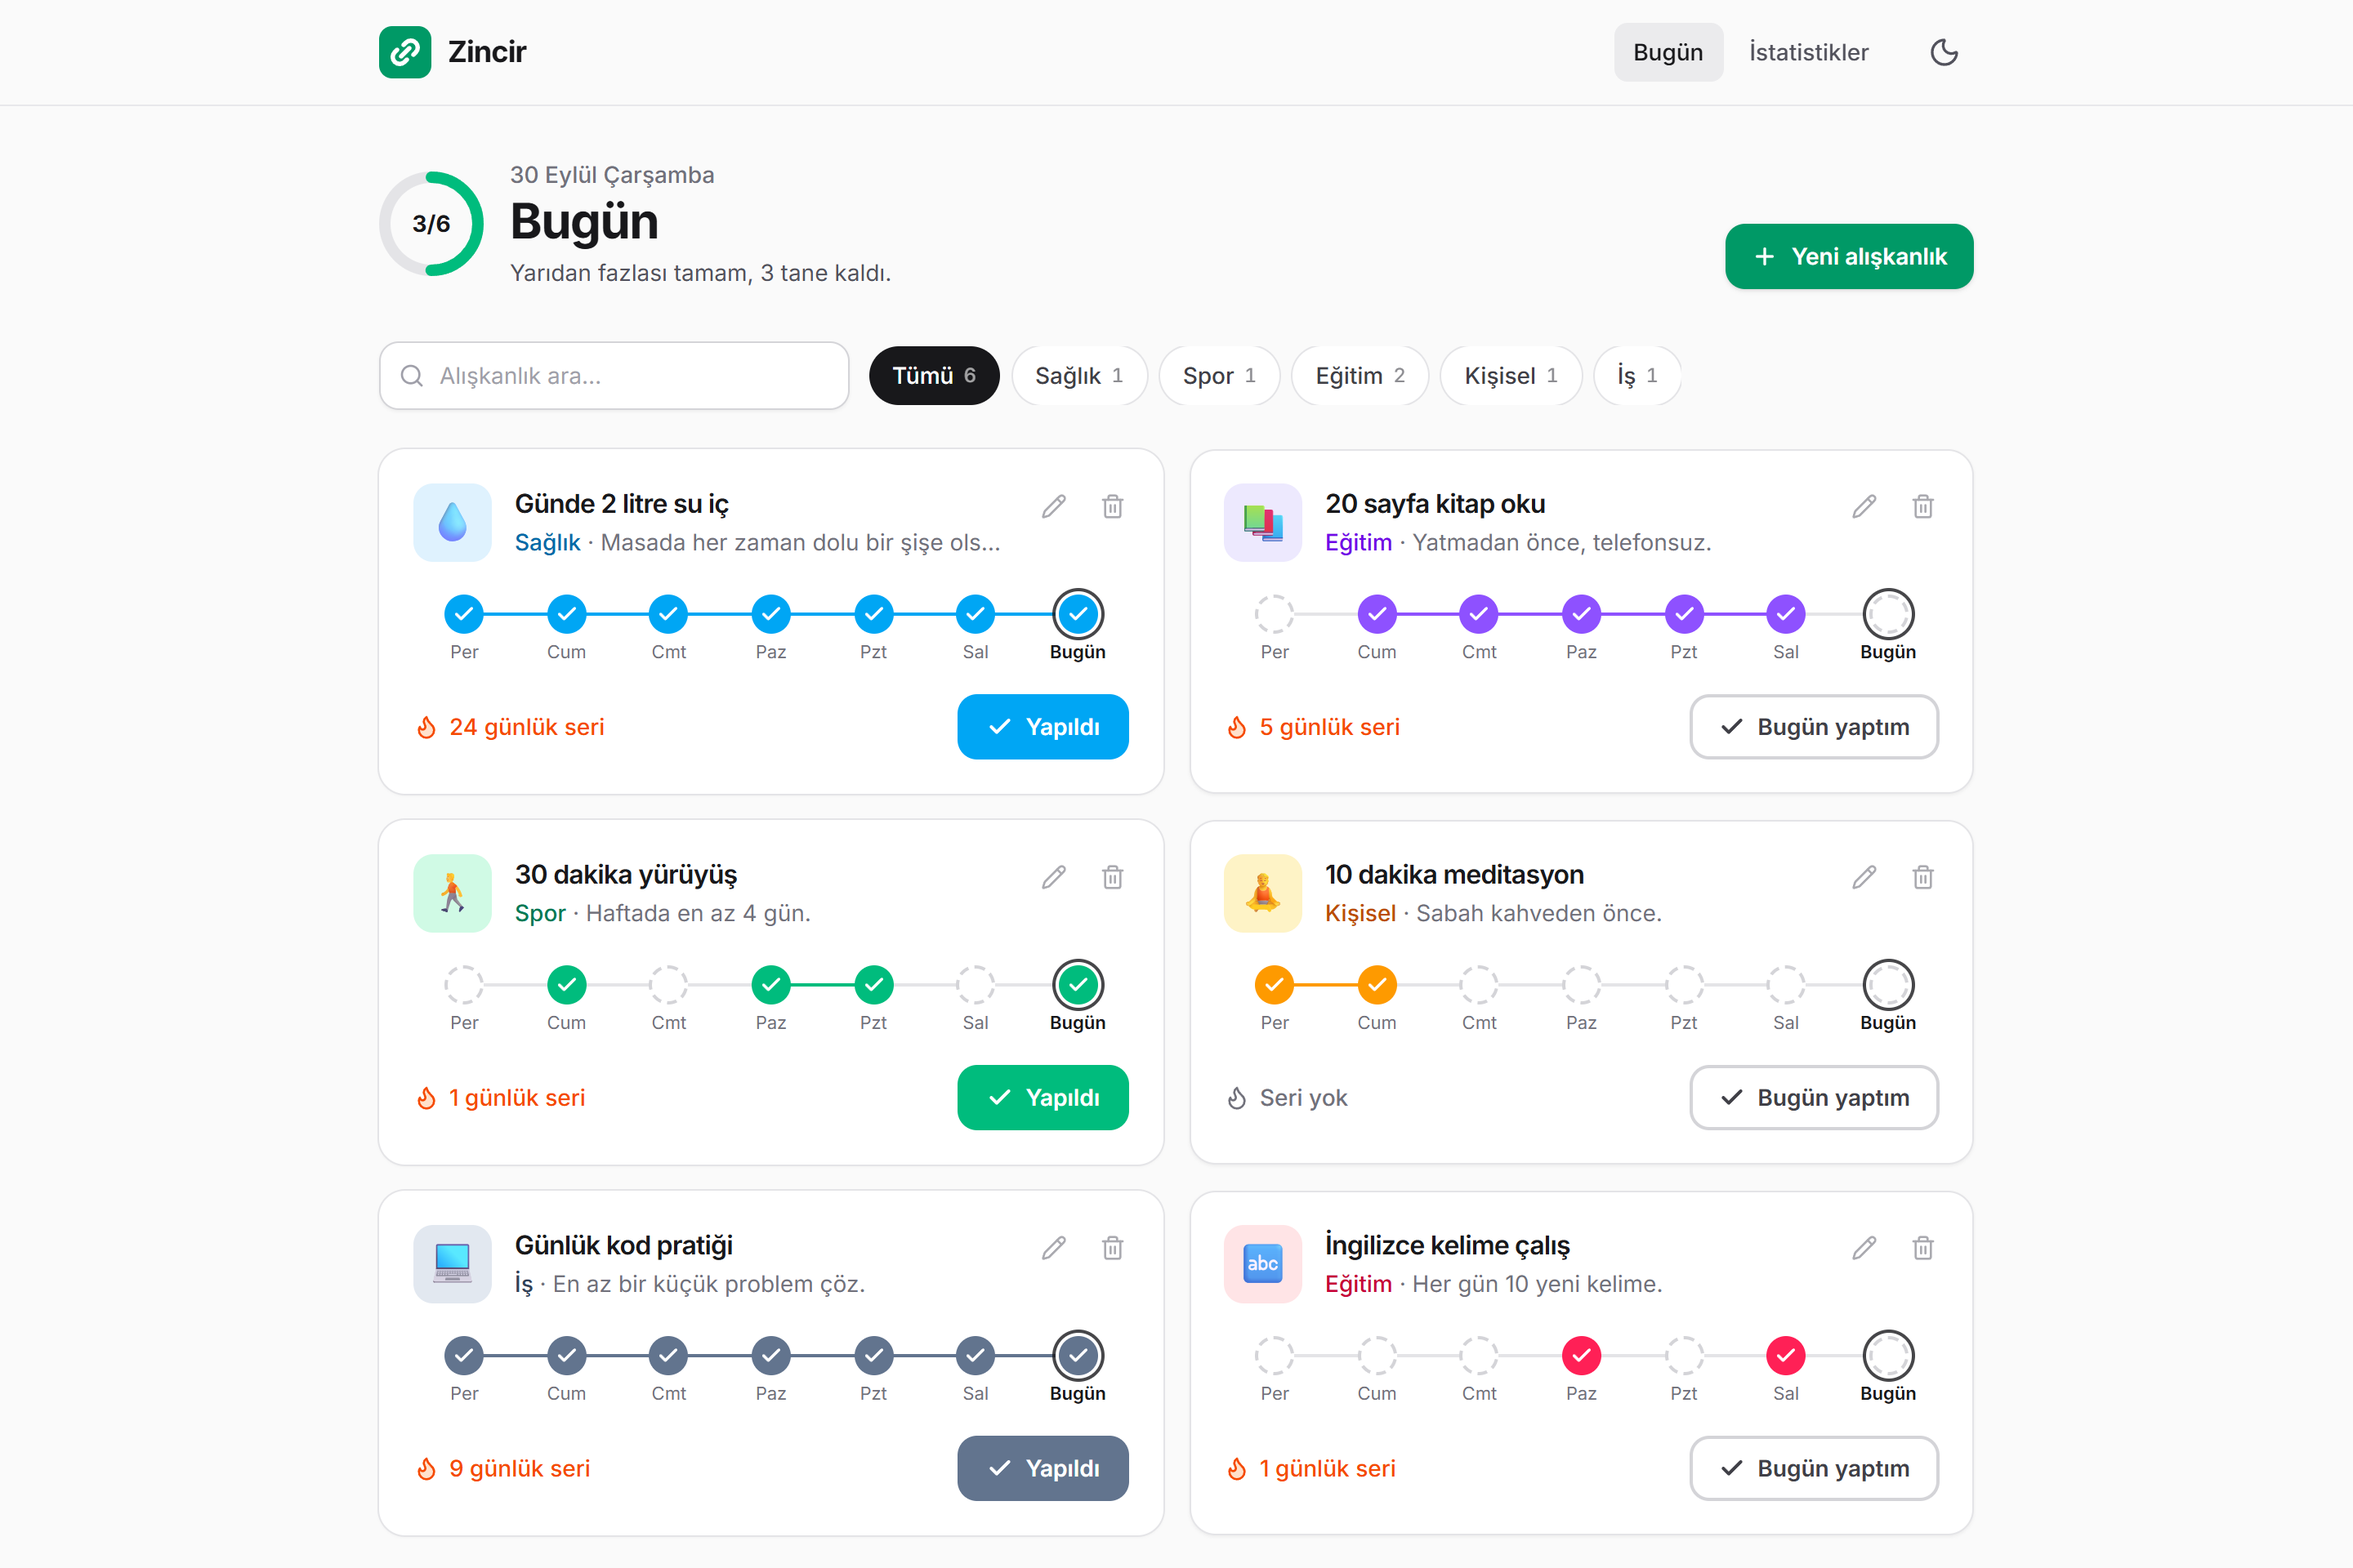
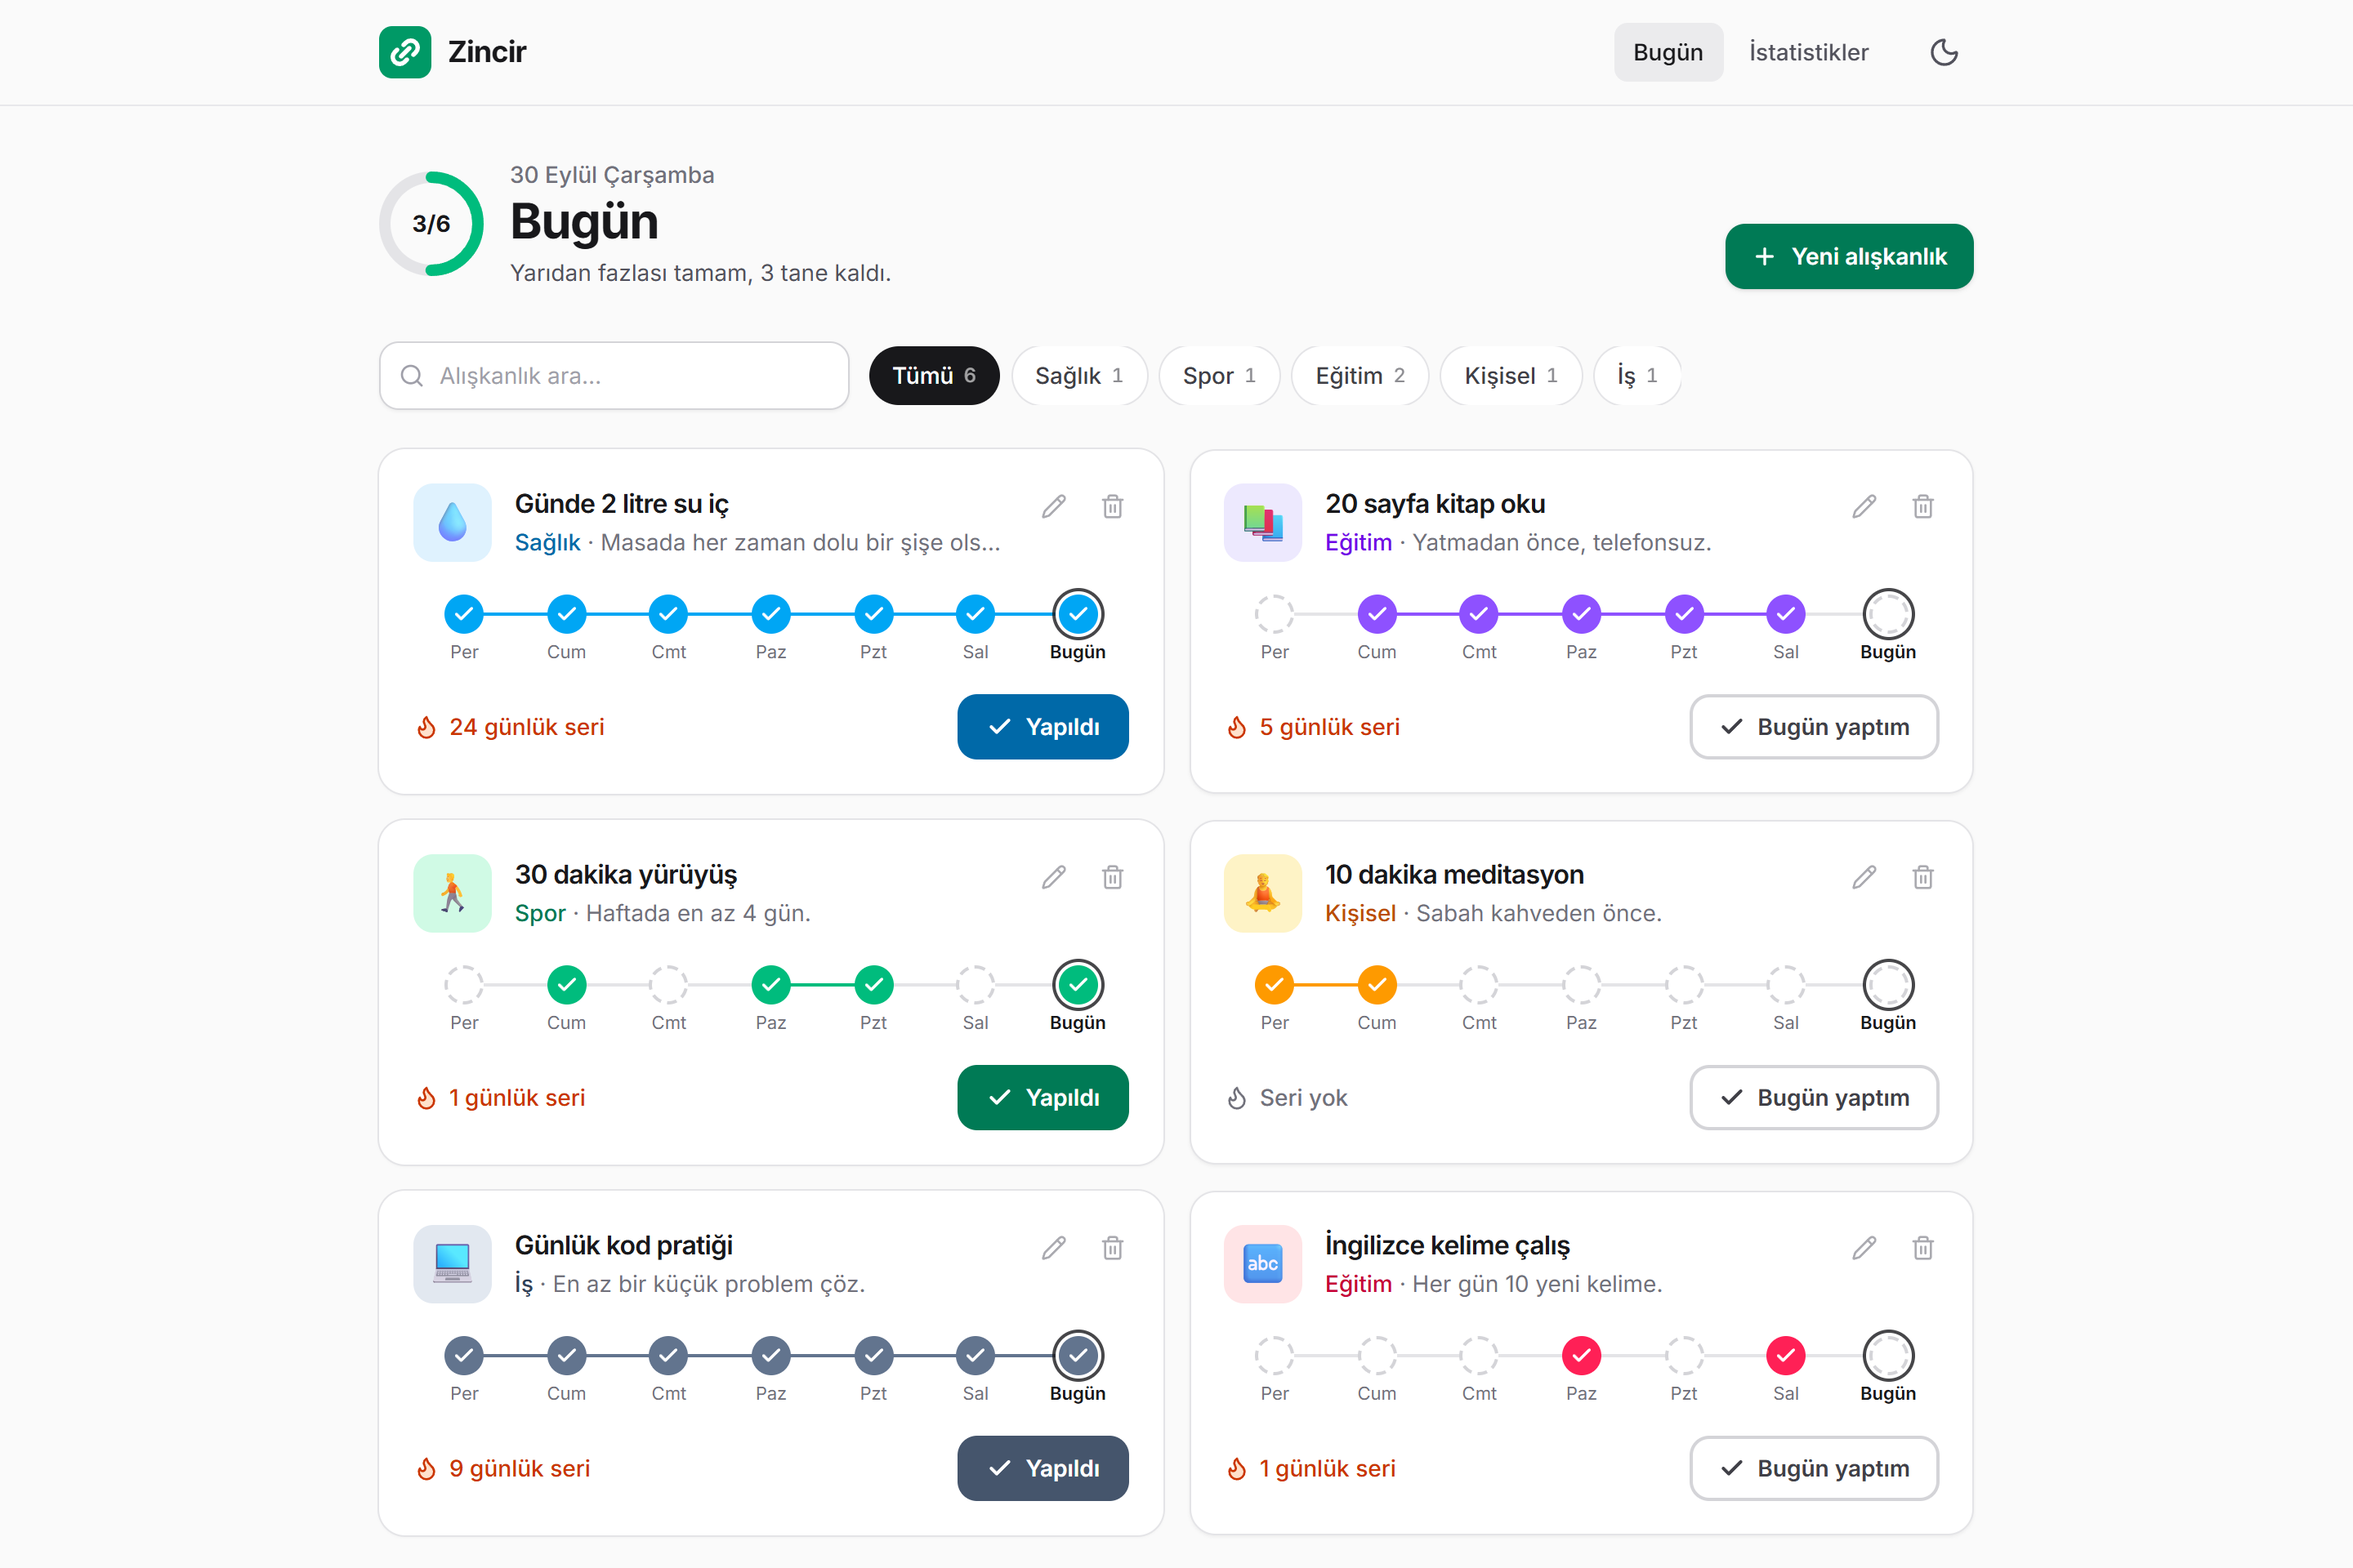
docs: güncel ekran görüntüleri ve test bölümü
- Erişilebilirlik renk düzeltmelerinden sonra ekran görüntüleri yenilendi
- README: 91 test, %94 kapsam, uçtan uca ve axe-core tarama sonuçları

diff --git a/README.md b/README.md
@@ -74,7 +74,8 @@ Uygulama **http://localhost:5173** adresinde açılır. İlk açılışta "Örne
 | `npm run dev` | Geliştirme sunucusu |
 | `npm run build` | Tip kontrolü ve üretim derlemesi (`dist/`) |
 | `npm run preview` | Üretim derlemesini yerelde çalıştırır |
-| `npm test` | Birim testleri (Vitest) |
+| `npm test` | Tüm testler (Vitest) |
+| `npm run test:coverage` | Testler + kapsam raporu |
 | `npm run lint` | ESLint ile kod denetimi |
 
 ---
@@ -113,9 +114,16 @@ docs/
 npm test
 ```
 
-**77 birim testi**, 10 dosya. Kapsam: tarih işlemleri (ay/yıl geçişi, artık yıl), seri ve oran hesapları, takvim ızgarası, istatistikler, form doğrulama, LocalStorage (bozuk veri, dolu depolama), reducer ve depo (sekmeler arası senkron).
+**91 test**, 12 dosya · kod kapsamı **%94** (`npm run test:coverage`)
 
-Tarih hesapları **4 farklı saat diliminde** (İstanbul, UTC, UTC+14, UTC-7) ve yaz saati geçişinde ayrıca test edilir.
+| Katman | Test edilenler |
+|---|---|
+| **Arayüz (entegrasyon)** | Yönergedeki dört işlem kullanıcı gibi test edilir: ekle (doğrulama, tekrar eden ad), listele, güncelle (düzenle, bugün yaptım), sil (vazgeç, geri al). Arama / kategori filtresi, detay, istatistik ve bulunamadı sayfaları. — Testing Library + jsdom |
+| **Hesaplamalar** | Tarih (ay/yıl geçişi, artık yıl), seri ve oran hesapları, takvim ızgarası, istatistikler, form doğrulama |
+| **Veri** | LocalStorage (bozuk veri, dolu depolama), reducer, depo (sekmeler arası senkron) |
+| **Zaman** | Tarih hesapları **4 saat diliminde** (İstanbul, UTC, UTC+14, UTC-7) ve yaz saati geçişinde; gece yarısı gün değişimi |
+
+Yayın öncesi ayrıca gerçek tarayıcıda (Edge) **uçtan uca tarama** yapılmıştır: 49 kullanıcı senaryosu, konsol hatası 0, ve 11 ekranda (açık/koyu tema, masaüstü/mobil) **axe-core erişilebilirlik taramasında 0 ihlal** (WCAG AA renk kontrastı dahil).
 
 ---
 
